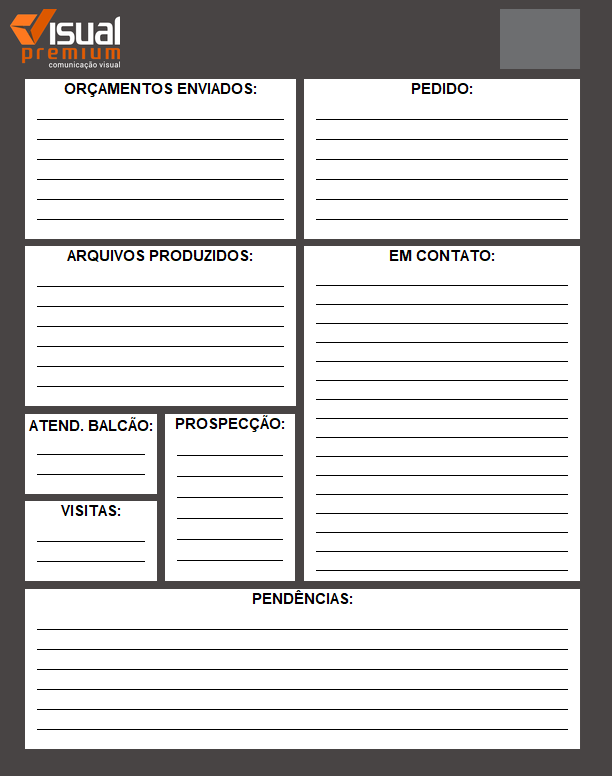
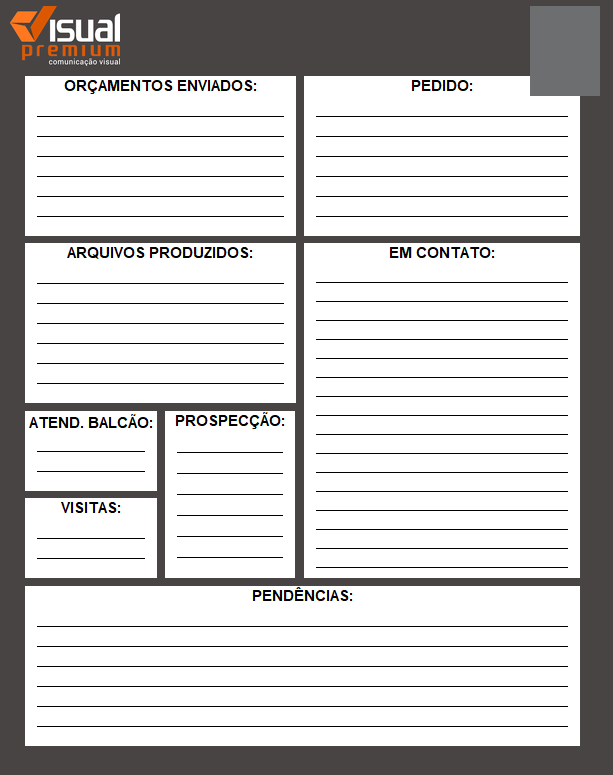
Versão 1.1
- Atualizações e melhorias

Changed region(s): [[0.0, 0.0, 0.9935, 0.8981]]

diff --git a/main.py b/main.py
@@ -9,7 +9,7 @@ from reportlab.pdfgen import canvas
 import numpy as np
 import cv2
 import json
-from PIL import Image, ImageTk
+from PIL import Image, ImageTk, ImageDraw, ImageFont
 
 # Configura a localidade para português
 locale.setlocale(locale.LC_TIME, 'pt_BR.UTF-8')
@@ -17,7 +17,7 @@ locale.setlocale(locale.LC_TIME, 'pt_BR.UTF-8')
 # Lista com os dias da semana corrigidos
 dias_da_semana = ["segunda-feira", "terça-feira", "quarta-feira", "quinta-feira", "sexta-feira", "sábado", "domingo"]
 
-def create_labeled_input_area(master, label_text, x_label, y_label, width_label, height_label, x_input, y_input, width_input, height_input, num_lines):
+def create_labeled_input_area(master, label_text, x_label, y_label, width_label, height_label, x_input, y_input, width_input, height_input, num_lines, max_chars):
     # Criar o label
     label = tk.Label(master, text=label_text, bg="white", anchor="center", font=("Arial", 9, "bold"))
     label.place(x=x_label, y=y_label, width=width_label, height=height_label)
@@ -28,7 +28,21 @@ def create_labeled_input_area(master, label_text, x_label, y_label, width_label,
 
     # Calcular o espaçamento das linhas (altura total dividida pelo número de linhas)
     line_height = height_input // num_lines
-    margin = 12  # Espaço em branco antes e depois das linhas
+    margin = 11  # Espaço em branco antes e depois das linhas
+
+    # Função para limitar a entrada considerando o espaço como meio caractere
+    def limit_chars_input(char, value):
+        count = 0
+        for c in value:
+            # Considera espaço como meio caractere
+            if c == " ":
+                count += 0.5
+            else:
+                count += 1
+        
+        if count > max_chars:
+            return False
+        return True
 
     # Desenhar as linhas no Canvas (com recuo no início e no fim)
     for i in range(1, num_lines + 1):
@@ -38,7 +52,43 @@ def create_labeled_input_area(master, label_text, x_label, y_label, width_label,
         entry = tk.Entry(master, bd=0, font=("Arial", 10), fg="black", bg="white")
         entry.place(x=x_input + margin, y=y_input + (i - 1) * line_height + 2, width=width_input - 2 * margin, height=line_height - 2)
 
+        # Limitar os caracteres no Entry
+        entry.config(validate="key", validatecommand=(master.register(limit_chars_input), '%S', '%P'))
+
     return canvas
+
+def create_rotated_label(master, text, x, y, width, height, angle=90):
+    # Cria uma imagem com fundo transparente
+    image = Image.new("RGBA", (width, height), (255, 255, 255, 0))  # Cria uma imagem em RGBA (com transparência)
+    draw = ImageDraw.Draw(image)
+    
+    # Definir a fonte e tamanho para o texto
+    font = ImageFont.truetype("ariblk.ttf", 30)  # Fonte e tamanho do texto
+    
+    # Usar textbbox em vez de textsize
+    bbox = draw.textbbox((0, 0), text, font=font)
+    text_width = bbox[2] - bbox[0]  # Largura
+    text_height = bbox[3] - bbox[1]  # Altura
+    
+    # Posicionar o texto no centro da imagem
+    text_x = (width - text_width) // 2
+    text_y = (height - text_height) // 5
+    
+    # Desenhar o texto na imagem
+    draw.text((text_x, text_y), text, font=font, fill="white")
+    
+    # Rotacionar a imagem
+    rotated_image = image.rotate(angle, expand=True)
+    
+    # Converter a imagem para o formato do Tkinter
+    rotated_image_tk = ImageTk.PhotoImage(rotated_image)
+    
+    # Exibir a imagem rotacionada em uma label
+    label = tk.Label(master, image=rotated_image_tk, bd=0, highlightthickness=0, bg="#6d6e70")
+    label.image = rotated_image_tk  # Manter uma referência à imagem
+    label.place(x=x, y=y, width=width, height=height)
+
+    return label
 
 # Dicionário para armazenar os dados da agenda
 agenda_data = {}
@@ -59,9 +109,12 @@ def save_agenda_data():
                 label = widget.master.winfo_children()[0].cget("text")  # Obter o texto do label
                 value = widget.get().strip()  # Obter o valor do campo e remover espaços
 
-                if value:  # Salvar apenas se o valor não estiver vazio
-                    # Usar o índice para distinguir entre as entradas
-                    current_data[f"{label}_{entry_index}"] = value
+                # Se o valor estiver vazio, substituir por um caractere invisível
+                if not value:
+                    value = "\u200B"  # Caractere invisível (espaço não quebrável)
+
+                # Salvar o valor no dicionário
+                current_data[f"{label}_{entry_index}"] = value
 
         # Carregar os dados antigos, se existirem
         try:
@@ -70,18 +123,23 @@ def save_agenda_data():
         except FileNotFoundError:
             agenda_data = {}
 
-        # Adicionar o novo conjunto de dados ao dicionário
+        # Se houver dados antigos para a data atual, vamos removê-los
         if data_id in agenda_data:
-            agenda_data[data_id].update(current_data)  # Atualiza os dados existentes
+            # Atualiza os dados existentes com os novos
+            agenda_data[data_id].update(current_data)
         else:
+            # Se não existir, cria uma nova entrada para a data
             agenda_data[data_id] = current_data
 
         # Salvar no arquivo JSON
         with open('agenda_data.json', 'w', encoding='utf-8') as f:
             json.dump(agenda_data, f, ensure_ascii=False, indent=4)
 
+        #messagebox.showinfo("Sucesso", "Agenda salva com sucesso!")
+
     except Exception as e:
         messagebox.showerror("Erro", f"Erro ao salvar a agenda: {e}")
+
 
 # Função para carregar os dados da agenda
 def load_agenda_data(date_selected=None):
@@ -118,6 +176,10 @@ def on_ctrl_s(event):
     # Salvar a agenda quando Ctrl+S for pressionado
     save_agenda_data()
 
+def auto_save():
+    save_agenda_data()  # Salva os dados
+    root.after(1000, auto_save)  # Agendar para salvar a cada 1 segundos (1000 ms)
+
 def open_calendar():
     global calendar_open
     if calendar_open:
@@ -143,7 +205,14 @@ def open_calendar():
     calendar.bind("<<CalendarSelected>>", on_calendar_click)
 
     # Botão de confirmar
-    confirm_button = tk.Button(top_window, text="Confirmar", command=lambda: confirm_date(top_window))
+    confirm_button = tk.Button(
+        top_window, 
+        text="Confirmar", 
+        command=lambda: confirm_date(top_window), 
+        font=("Arial Black", 12),  # Fonte Arial Black, tamanho 12
+        bg="#6d6e70",  # Cor de fundo (verde)
+        fg="white"  # Cor do texto (branco)
+    )
     confirm_button.pack(pady=10)
 
     calendar_open = True  # Marca que o calendário foi aberto
@@ -168,23 +237,31 @@ def generate_agenda_for_date(date):
     weekday = dias_da_semana[date.weekday()].capitalize()   # Usando a lista de dias da semana
     month = date.strftime("%b").upper()  # Mês abreviado em português
 
-    # Cabeçalho dinâmico
-    tk.Label(agenda_frame, text=str(day_number), bg="#484444", fg="white", font=("Arial Black", 35, "bold")).place(x=20, y=10, width=80, height=60)
+    # Obter o ano atual
+    year = datetime.now().year
 
-    weekday_label = tk.Label(agenda_frame, text=weekday, bg="#484444", fg="white", font=("Arial Black", 20))
-    weekday_label.place(x=120, y=20, width=360, height=40)
+    # Exibir o ano no canto superior direito
+    year_label = tk.Label(root, text=str(year), bg="#484444", fg="white", font=("Arial Black", 20, "bold"))
+    year_label.place(x=644, y=10)  # Ajuste as coordenadas x e y conforme necessário
 
-    tk.Label(agenda_frame, text=month, bg="#6d6e70", fg="#ffffff", font=("Arial Black", 20, "bold")).place(x=500, y=10, width=80, height=60)
+     # Cabeçalho dinâmico
+    tk.Label(agenda_frame, text=str(day_number), bg="#484444", fg="white", font=("Arial Black", 30, "bold")).place(x=150, y=10, width=80, height=60)
+
+    weekday_label = tk.Label(agenda_frame, text=weekday, bg="#484444", fg="white", font=("Arial Black", 15))
+    weekday_label.place(x=240, y=20, width=260, height=40)
 
     # master, label_text, x_label, y_label, width_label, height_label, x_input, y_input, width_input, height_input, num_lines
-    create_labeled_input_area(agenda_frame, "ORÇAMENTOS ENVIADOS:", 25, 80, 271, 20, 25, 100, 271, 140, 7)
-    create_labeled_input_area(agenda_frame, "PEDIDO:", 304, 80, 276, 20, 304, 100, 276, 140, 7)
-    create_labeled_input_area(agenda_frame, "ARQUIVOS PRODUZIDOS:", 25, 247, 271, 20, 25, 267, 271, 140, 7)
-    create_labeled_input_area(agenda_frame, "EM CONTATO:", 304, 247, 276, 20, 304, 267, 276, 315, 16)
-    create_labeled_input_area(agenda_frame, "ATEND. BALCÃO:", 25, 415, 132, 25, 25, 435, 132, 60, 3)
-    create_labeled_input_area(agenda_frame, "PROSPECÇÃO:", 165, 415, 130, 20, 165, 435, 130, 147, 7)
-    create_labeled_input_area(agenda_frame, "VISITAS:", 25, 502, 132, 20, 25, 522, 132, 60, 3)
-    create_labeled_input_area(agenda_frame, "PENDÊNCIAS:", 25, 590, 555, 20, 25, 610, 555, 140, 7)
+    create_labeled_input_area(agenda_frame, "ORÇAMENTOS ENVIADOS:", 25, 80, 271, 20, 25, 100, 271, 140, 7, 28)
+    create_labeled_input_area(agenda_frame, "PEDIDO:", 304, 80, 276, 20, 304, 100, 276, 140, 7, 28)
+    create_labeled_input_area(agenda_frame, "ARQUIVOS PRODUZIDOS:", 25, 247, 271, 20, 25, 267, 271, 140, 7, 28)
+    create_labeled_input_area(agenda_frame, "EM CONTATO:", 304, 247, 276, 20, 304, 267, 276, 315, 16, 28)
+    create_labeled_input_area(agenda_frame, "ATEND. BALCÃO:", 25, 415, 132, 25, 25, 435, 132, 60, 3, 12)
+    create_labeled_input_area(agenda_frame, "VISITAS:", 25, 502, 132, 20, 25, 522, 132, 60, 3, 12)
+    create_labeled_input_area(agenda_frame, "PROSPECÇÃO:", 165, 415, 130, 20, 165, 435, 130, 147, 7, 12)
+    create_labeled_input_area(agenda_frame, "PENDÊNCIAS:", 25, 590, 555, 20, 25, 610, 555, 140, 7, 60)
+    
+    # Rotacionar a label do mês
+    create_rotated_label(agenda_frame, month, 530, 10, 90, 90)
 
     # Carregar os dados salvos
     load_agenda_data()
@@ -215,44 +292,6 @@ def confirm_date(top_window):
     calendar_open = False
 
 calendar_open = False  # Variável para rastrear se o calendário foi aberto
-
-def open_calendar():
-    global calendar_open
-    if calendar_open:
-        return  # Se o calendário já foi aberto, não faz nada
-    
-    # Cria uma nova janela para o calendário
-    top_window = tk.Toplevel(root)
-    top_window.title("Calendário")
-    top_window.geometry("300x350")
-
-    # Adiciona uma label para mostrar a data selecionada
-    global date_label
-    date_label = tk.Label(top_window, text="Selecione uma data", font=("Arial", 12))
-    date_label.pack(pady=10)
-
-    # Calendário interativo
-    global calendar
-    calendar = Calendar(top_window, selectmode='day', year=datetime.today().year, month=datetime.today().month, day=datetime.today().day, locale='pt_BR')
-
-    calendar.pack(padx=20, pady=20)
-
-    # Detecta o clique no calendário e atualiza a data selecionada
-    calendar.bind("<<CalendarSelected>>", on_calendar_click)
-
-    # Botão de confirmar
-    confirm_button = tk.Button(top_window, text="Confirmar", command=lambda: confirm_date(top_window))
-    confirm_button.pack(pady=10)
-
-    calendar_open = True  # Marca que o calendário foi aberto
-
-    # Ação para fechar a janela e marcar o calendário como fechado
-    def on_close():
-        global calendar_open
-        calendar_open = False
-        top_window.destroy()
-
-    top_window.protocol("WM_DELETE_WINDOW", on_close)  # Quando a janela for fechada, atualiza a variável
 
 def export_agenda_to_pdf():
     try:
@@ -324,6 +363,7 @@ def main():
     root.title("Agenda")
     root.geometry("800x800")
     root.configure(bg="#484444")
+    root.focus()  # Garantir que o foco está no root
 
     # Impedir que a janela seja redimensionada
     root.resizable(False, False)
@@ -344,37 +384,71 @@ def main():
     weekday = dias_da_semana[today.weekday()].capitalize()  # Usando a lista de dias da semana
     month = today.strftime("%b").upper()  # Mês abreviado em português
 
+    # Obter o ano atual
+    year = datetime.now().year
+
+    # Exibir o ano no canto superior direito
+    year_label = tk.Label(root, text=str(year), bg="#484444", fg="white", font=("Arial Black", 20, "bold"))
+    year_label.place(x=644, y=10)  # Ajuste as coordenadas x e y conforme necessário
+
     # Cabeçalho dinâmico
-    tk.Label(agenda_frame, text=str(day_number), bg="#484444", fg="white", font=("Arial Black", 30, "bold")).place(x=140, y=10, width=80, height=60)
+    tk.Label(agenda_frame, text=str(day_number), bg="#484444", fg="white", font=("Arial Black", 30, "bold")).place(x=150, y=10, width=80, height=60)
 
     weekday_label = tk.Label(agenda_frame, text=weekday, bg="#484444", fg="white", font=("Arial Black", 15))
-    weekday_label.place(x=215, y=20, width=260, height=40)
-
-    tk.Label(agenda_frame, text=month, bg="#6d6e70", fg="#ffffff", font=("Arial Black", 20, "bold")).place(x=500, y=10, width=80, height=60)
+    weekday_label.place(x=240, y=20, width=260, height=40)
 
     # master, label_text, x_label, y_label, width_label, height_label, x_input, y_input, width_input, height_input, num_lines
-    create_labeled_input_area(agenda_frame, "ORÇAMENTOS ENVIADOS:", 25, 80, 271, 20, 25, 100, 271, 140, 7)
-    create_labeled_input_area(agenda_frame, "PEDIDO:", 304, 80, 276, 20, 304, 100, 276, 140, 7)
-    create_labeled_input_area(agenda_frame, "ARQUIVOS PRODUZIDOS:", 25, 247, 271, 20, 25, 267, 271, 140, 7)
-    create_labeled_input_area(agenda_frame, "EM CONTATO:", 304, 247, 276, 20, 304, 267, 276, 315, 16)
-    create_labeled_input_area(agenda_frame, "ATEND. BALCÃO:", 25, 415, 132, 25, 25, 435, 132, 60, 3)
-    create_labeled_input_area(agenda_frame, "PROSPECÇÃO:", 165, 415, 130, 20, 165, 435, 130, 147, 7)
-    create_labeled_input_area(agenda_frame, "VISITAS:", 25, 502, 132, 20, 25, 522, 132, 60, 3)
-    create_labeled_input_area(agenda_frame, "PENDÊNCIAS:", 25, 590, 555, 20, 25, 610, 555, 140, 7)
+    create_labeled_input_area(agenda_frame, "ORÇAMENTOS ENVIADOS:", 25, 80, 271, 20, 25, 100, 271, 140, 7, 28)
+    create_labeled_input_area(agenda_frame, "PEDIDO:", 304, 80, 276, 20, 304, 100, 276, 140, 7, 28)
+    create_labeled_input_area(agenda_frame, "ARQUIVOS PRODUZIDOS:", 25, 247, 271, 20, 25, 267, 271, 140, 7, 28)
+    create_labeled_input_area(agenda_frame, "EM CONTATO:", 304, 247, 276, 20, 304, 267, 276, 315, 16, 28)
+    create_labeled_input_area(agenda_frame, "ATEND. BALCÃO:", 25, 415, 132, 25, 25, 435, 132, 60, 3, 12)
+    create_labeled_input_area(agenda_frame, "VISITAS:", 25, 502, 132, 20, 25, 522, 132, 60, 3, 12)
+    create_labeled_input_area(agenda_frame, "PROSPECÇÃO:", 165, 415, 130, 20, 165, 435, 130, 147, 7, 12)
+    create_labeled_input_area(agenda_frame, "PENDÊNCIAS:", 25, 590, 555, 20, 25, 610, 555, 140, 7, 60)
+    
+    # Rotacionar a label do mês
+    create_rotated_label(agenda_frame, month, 530, 10, 90, 90)
 
-    # Carregar os dados salvos ou gerar agenda com data atual
+    # Carregar os dados salvos ou gerar agenda com data atual  
     load_agenda_data()  # Carrega dados salvos, se existirem
-
+    
+    # Iniciar o salvamento automático
+    auto_save()  # Iniciar o salvamento periódico    
+    
     # Botão para abrir o calendário em outra janela
-    open_calendar_button = tk.Button(root, text="Alterar Data", command=open_calendar)
+    open_calendar_button = tk.Button(
+        root, 
+        text="Alterar Data", 
+        command=open_calendar, 
+        font=("Arial Black", 12),  # Fonte Arial Black, tamanho 12
+        bg="#6d6e70",  # Cor de fundo
+        fg="white"  # Cor do texto (branca)
+    )
     open_calendar_button.place(x=616, y=80, width=150, height=40)
 
-    export_button = tk.Button(root, text="Exportar", command=export_agenda_to_pdf)
+    # Botão Exportar
+    export_button = tk.Button(
+        root, 
+        text="Exportar", 
+        command=export_agenda_to_pdf, 
+        font=("Arial Black", 12), 
+        bg="#6d6e70",  # Cor de fundo
+        fg="white"
+    )
     export_button.place(x=616, y=140, width=150, height=40)
 
-    # Botão Salvar (logo abaixo do Exportar)
-    save_button = tk.Button(root, text="Salvar", command=save_agenda_data)
+    # Botão Salvar
+    save_button = tk.Button(
+        root, 
+        text="Salvar", 
+        command=save_agenda_data, 
+        font=("Arial Black", 12), 
+        bg="#6d6e70",  # Cor de fundo
+        fg="white"
+    )
     save_button.place(x=616, y=200, width=150, height=40)
+
 
     # Capturar o evento Ctrl+S para salvar
     root.bind("<Control-s>", on_ctrl_s)
